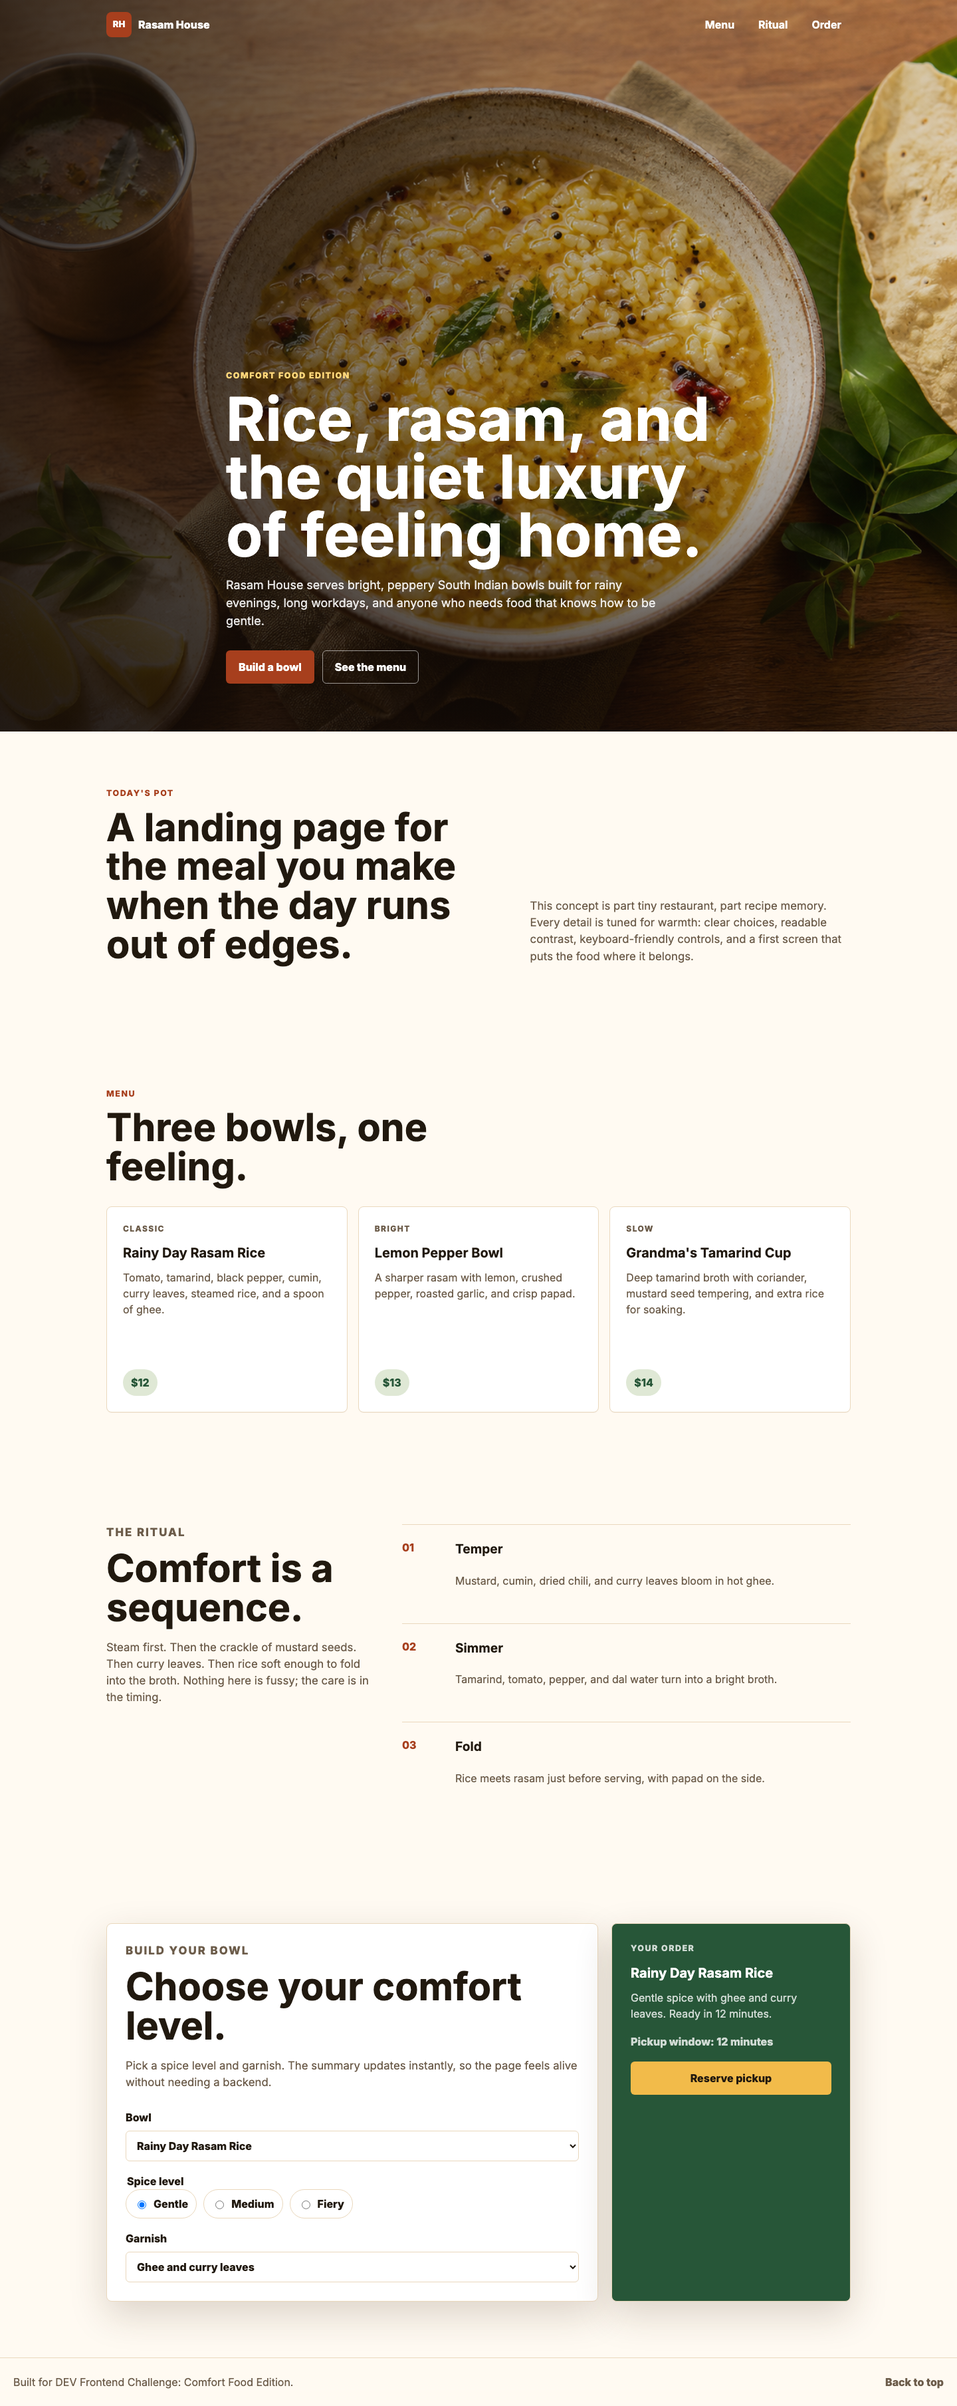
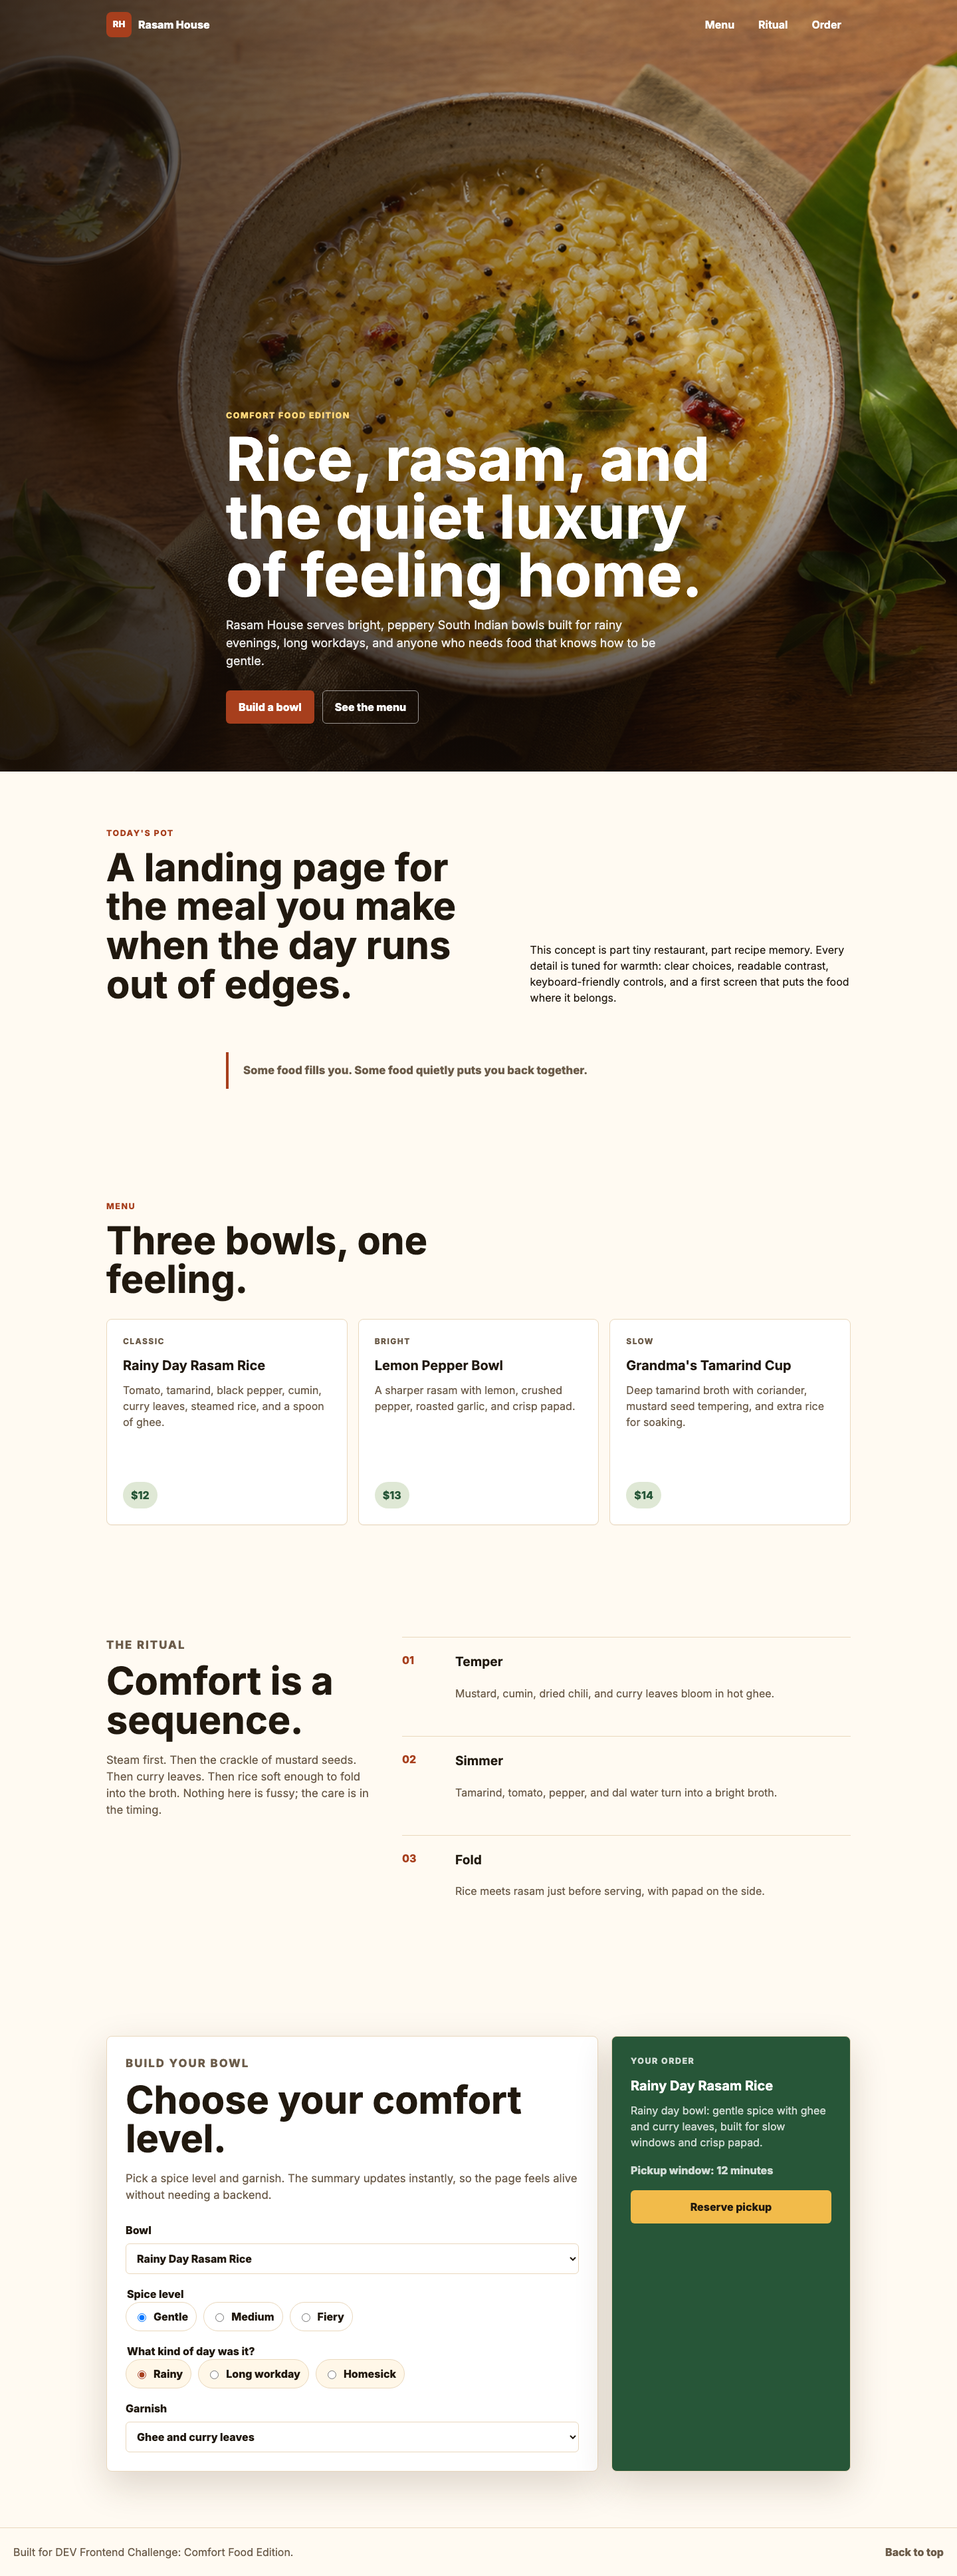
Add comfort mood polish

diff --git a/index.html b/index.html
@@ -7,6 +7,27 @@
       name="description"
       content="Rasam House is a comfort food landing page celebrating warm South Indian rasam rice bowls."
     />
+    <meta property="og:title" content="Rasam House | Comfort Food Bowls" />
+    <meta
+      property="og:description"
+      content="A warm, responsive comfort-food landing page for South Indian rasam rice bowls."
+    />
+    <meta
+      property="og:image"
+      content="https://rohithmatham12.github.io/dev-comfort-food-challenge/assets/screenshot-desktop.png"
+    />
+    <meta property="og:url" content="https://rohithmatham12.github.io/dev-comfort-food-challenge/" />
+    <meta property="og:type" content="website" />
+    <meta name="twitter:card" content="summary_large_image" />
+    <meta name="twitter:title" content="Rasam House | Comfort Food Bowls" />
+    <meta
+      name="twitter:description"
+      content="A warm, responsive comfort-food landing page for South Indian rasam rice bowls."
+    />
+    <meta
+      name="twitter:image"
+      content="https://rohithmatham12.github.io/dev-comfort-food-challenge/assets/screenshot-desktop.png"
+    />
     <title>Rasam House | Comfort Food Bowls</title>
     <link rel="preconnect" href="https://fonts.googleapis.com" />
     <link rel="preconnect" href="https://fonts.gstatic.com" crossorigin />
@@ -103,6 +124,9 @@
           This concept is part tiny restaurant, part recipe memory. Every detail
           is tuned for warmth: clear choices, readable contrast, keyboard-friendly
           controls, and a first screen that puts the food where it belongs.
+        </p>
+        <p class="memory-line">
+          Some food fills you. Some food quietly puts you back together.
         </p>
       </section>
 
@@ -202,6 +226,12 @@
               <label><input type="radio" name="spice" value="medium" /> Medium</label>
               <label><input type="radio" name="spice" value="fiery" /> Fiery</label>
             </fieldset>
+            <fieldset class="mood-picker">
+              <legend>What kind of day was it?</legend>
+              <label><input type="radio" name="mood" value="rainy" checked /> Rainy</label>
+              <label><input type="radio" name="mood" value="long" /> Long workday</label>
+              <label><input type="radio" name="mood" value="homesick" /> Homesick</label>
+            </fieldset>
             <label>
               Garnish
               <select name="garnish">
@@ -219,6 +249,10 @@
             Gentle spice with ghee and curry leaves. Ready in 12 minutes.
           </p>
           <p class="pickup-meta" data-pickup-meta>Pickup window: 12 minutes</p>
+          <div class="reservation-steam" data-reservation-steam hidden aria-hidden="true">
+            <span></span>
+            <span></span>
+          </div>
           <div class="order-progress" data-order-progress hidden>
             <span></span>
           </div>

diff --git a/script.js b/script.js
@@ -7,6 +7,7 @@ const summaryBowl = document.querySelector("[data-summary-bowl]");
 const summaryCopy = document.querySelector("[data-summary-copy]");
 const pickupMeta = document.querySelector("[data-pickup-meta]");
 const orderProgress = document.querySelector("[data-order-progress]");
+const reservationSteam = document.querySelector("[data-reservation-steam]");
 const toastButton = document.querySelector("[data-toast-button]");
 const resetOrderButton = document.querySelector("[data-reset-order]");
 const toast = document.querySelector("[data-toast]");
@@ -20,6 +21,21 @@ const garnishCopy = {
   "Extra papad": "extra papad",
 };
 
+const moodCopy = {
+  rainy: {
+    label: "Rainy day",
+    note: "built for slow windows and crisp papad",
+  },
+  long: {
+    label: "Long workday",
+    note: "built to soften the edges of the day",
+  },
+  homesick: {
+    label: "Homesick",
+    note: "built for the first spoonful that feels familiar",
+  },
+};
+
 function updateHeader() {
   header.classList.toggle("is-scrolled", window.scrollY > 12);
 }
@@ -28,10 +44,12 @@ function updateOrderSummary() {
   const data = new FormData(orderForm);
   const bowl = data.get("bowl");
   const spice = data.get("spice");
+  const mood = data.get("mood");
   const garnish = data.get("garnish");
+  const comfort = moodCopy[mood];
 
   summaryBowl.textContent = bowl;
-  summaryCopy.textContent = `${capitalize(spice)} spice with ${garnishCopy[garnish]}. Ready in 12 minutes.`;
+  summaryCopy.textContent = `${comfort.label} bowl: ${spice} spice with ${garnishCopy[garnish]}, ${comfort.note}.`;
   pickupMeta.textContent = "Pickup window: 12 minutes";
   resetReservationState();
 }
@@ -43,6 +61,7 @@ function capitalize(value) {
 function resetReservationState() {
   window.clearTimeout(reservationTimer);
   orderProgress.hidden = true;
+  reservationSteam.hidden = true;
   toast.hidden = true;
   resetOrderButton.hidden = true;
   toastButton.hidden = false;
@@ -61,10 +80,11 @@ function reservePickup() {
 
   reservationTimer = window.setTimeout(() => {
     orderProgress.hidden = true;
+    reservationSteam.hidden = false;
     toastButton.hidden = true;
     resetOrderButton.hidden = false;
     pickupMeta.textContent = `Pickup code: RH-${pickupCode}`;
-    toast.textContent = "Pickup reserved. Your bowl will stay warm for 12 minutes.";
+    toast.textContent = `Your rasam is resting under a lid. Pickup code RH-${pickupCode}.`;
     toast.hidden = false;
   }, 1100);
 }

diff --git a/styles.css b/styles.css
@@ -505,6 +505,18 @@ h3 {
   font-size: 1.05rem;
 }
 
+.intro .memory-line {
+  grid-column: 1 / -1;
+  width: min(760px, 100%);
+  margin: 6px auto 0;
+  border-left: 4px solid var(--spice);
+  color: var(--ink);
+  font-size: clamp(1.35rem, 3vw, 2rem);
+  font-weight: 800;
+  line-height: 1.14;
+  padding: 18px 0 18px 22px;
+}
+
 .section-heading {
   max-width: 680px;
   margin-bottom: 30px;
@@ -645,6 +657,14 @@ fieldset label {
   padding: 9px 12px;
 }
 
+.mood-picker label {
+  background: #fff7e8;
+}
+
+.mood-picker input:checked {
+  accent-color: var(--spice);
+}
+
 .summary {
   background: var(--leaf);
   color: white;
@@ -680,6 +700,28 @@ fieldset label {
 .pickup-meta {
   margin: 18px 0 0;
   font-weight: 800;
+}
+
+.reservation-steam {
+  display: flex;
+  justify-content: center;
+  gap: 14px;
+  height: 58px;
+  margin-top: 14px;
+}
+
+.reservation-steam span {
+  width: 11px;
+  height: 52px;
+  border-radius: 999px;
+  background: linear-gradient(180deg, rgba(255, 255, 255, 0), rgba(255, 238, 189, 0.86), rgba(255, 255, 255, 0));
+  filter: blur(5px);
+  animation: summary-steam-rise 2.2s ease-in-out infinite;
+}
+
+.reservation-steam span:nth-child(2) {
+  height: 44px;
+  animation-delay: 520ms;
 }
 
 .order-progress {
@@ -866,6 +908,20 @@ fieldset label {
   }
   100% {
     transform: translateX(230%);
+  }
+}
+
+@keyframes summary-steam-rise {
+  0% {
+    opacity: 0;
+    transform: translateY(14px) scaleX(0.78);
+  }
+  45% {
+    opacity: 0.86;
+  }
+  100% {
+    opacity: 0;
+    transform: translateY(-16px) scaleX(1.18);
   }
 }
 

diff --git a/dev-post.md b/dev-post.md
@@ -1,7 +1,7 @@
 ---
 title: Rasam House - Comfort Food Landing Page
 published: false
-description: A warm, responsive landing page for a South Indian rasam rice concept.
+description: A food-memory inspired landing page for South Indian rasam rice, built with responsive HTML, CSS, and JavaScript.
 tags: devchallenge, frontendchallenge, css, javascript
 ---
 
@@ -19,14 +19,23 @@ pepper, cumin, curry leaves, and a little ghee. But when it is hot and bright
 and spooned into a bowl, it feels like being brought back to yourself. That is
 the feeling I tried to turn into a landing page.
 
+Instead of treating comfort food like a normal restaurant conversion page, I
+tried to make the interaction feel emotional. The order panel asks what kind of
+day it was -- rainy, long workday, or homesick -- and the bowl summary changes
+around that mood. The reservation flow also has a small cooking moment before it
+returns a pickup code, so the interface feels like something is being prepared
+rather than instantly stamped out.
+
 The page includes:
 
 - a full-viewport food hero with soft steam animation
-- a short cooking loader with a simmering pot animation
+- a conditional cooking loader for slower page loads
 - accessible navigation and skip link
 - menu cards
 - a short cooking ritual section
-- an interactive "build your bowl" order panel
+- an interactive "build your bowl" order panel with mood-based copy
+- a pickup reservation state with progress, a confirmation code, and reset
+- Open Graph and Twitter preview metadata
 - responsive mobile layout
 - reduced-motion support
 
@@ -39,16 +48,17 @@ https://github.com/Rohithmatham12/dev-comfort-food-challenge
 
 ## Journey
 
-The main design challenge was making the food feel present immediately without
-turning the page into a generic restaurant template. I kept the layout simple
-and let the dish lead the first screen. The interaction is intentionally small:
-users can choose a bowl, spice level, and garnish, and the order summary updates
-without needing a backend.
+The main design challenge was making the food memory feel present immediately
+without turning the page into a generic restaurant template. I kept the layout
+simple and let the dish lead the first screen. The interaction is intentionally
+small: users can choose a bowl, spice level, garnish, and mood, and the order
+summary updates without needing a backend.
 
-I also added a gentle steam animation in the hero, a little "Simmering rasam"
-loader, and a tiny confirmation moment after reserving pickup. The motion is
-intentionally quiet because comfort food should not feel like a slot machine. It
-should feel like something is patiently getting warm for you.
+I also added a gentle steam animation in the hero, a conditional "Simmering
+rasam" loader for slower loads, and a tiny confirmation moment after reserving
+pickup. The motion is intentionally quiet because comfort food should not feel
+like a slot machine. It should feel like something is patiently getting warm for
+you.
 
 I focused on frontend fundamentals:
 
